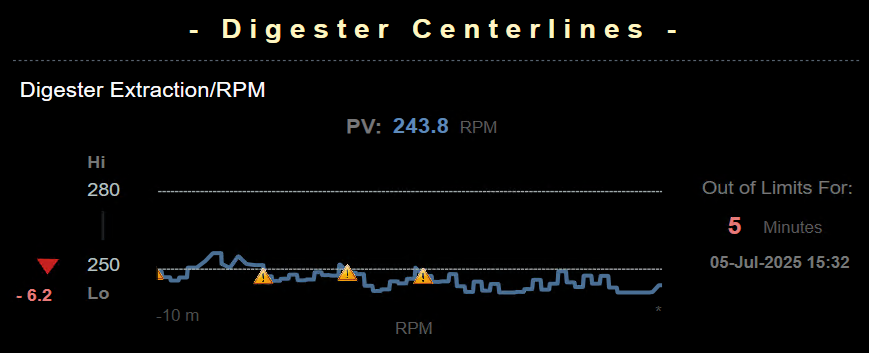
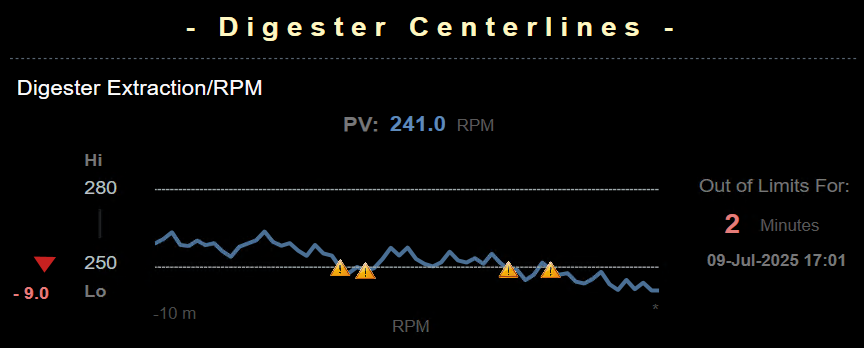
Deviation - Ignition

diff --git a/src/sa-principles/deviation.md b/src/sa-principles/deviation.md
@@ -183,9 +183,27 @@ Unlike Use Case #1, which focuses on magnitude of deviation from a target, this 
 
 <span style="display:block; height:0.0px;"></span>
 
+#### ✅ Ignition Perspective — Supports Deviation (Duration + Limits)
+
+<span style="display:block; height:0.0px;"></span>  
+| Aspect | Notes |
+| ------ | ----- |
+| **Implementation Approach** | Gateway timer script monitors compliance bit and triggers logic to calculate and display deviation duration and timestamp. |
+| **Display Build** | • Time Series Chart shows value, high/low limits, and visible deviation bands.<br>• Timer and timestamp appear when limit exceeded.<br>• Transform and bindings used to format display. |
+| **Version Tested** | Ignition 8.1.x (Perspective) |
+
+<div style="display: flex; flex-direction: column; align-items: center; margin-top: 40px;">
+  <img src="../images/deviation_duration_perspective_1.PNG" width="90%" style="margin-bottom: 30px;" />
+  <img src="../images/deviation_duration_perspective_2.PNG" width="90%" style="margin-bottom: 30px;" />
+  <img src="../images/deviation_duration_perspective_3.PNG" width="100%" style="margin-bottom: 30px;" />
+  <img src="../images/deviation_duration_perspective_4.PNG" width="100%" />
+</div>
+
+<span style="display:block; height:0.0px;"></span>
+
 #### Upcoming Vendor Testing
 
-- Inductive Automation Ignition Perspective
+- TBD
 
 </div>
 
